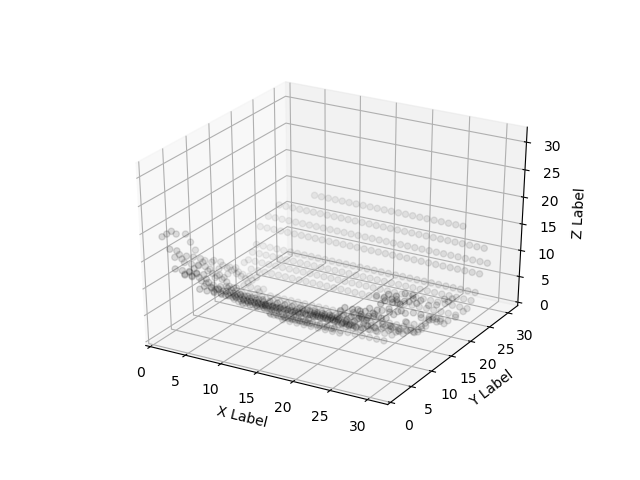
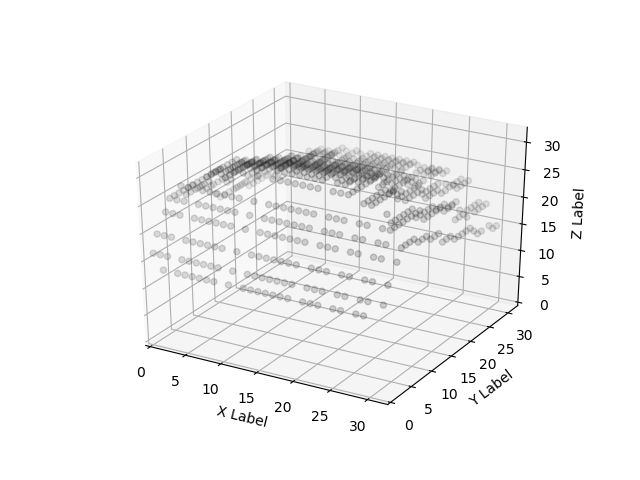
added figures for sparsity test

Changed region(s): [[0.2188, 0.2812, 0.7812, 0.7188]]

diff --git a/convert_data.py b/convert_data.py
@@ -397,7 +397,61 @@ def get_visible_set(in_dir, out_dir, insize, subdir):
             small_grid = np.reshape(np.load(f), (insize, insize, insize))
             for i in range(0, insize):
                 for j in range(0,insize):
-                    for k in range(0,insize):
+                    for k in range(insize-1,-1,-1):
+                        if small_grid[i,j,k] == 1:
+                            grid[i,j,k] = small_grid[i,j,k]
+                            break # stop at first z
+
+        filename = os.path.join(out_dir, fname)
+        with open(filename, "wb") as f:
+            np.save(f, grid)
+
+        if "_0" in fname:
+            # sanity check
+            s = insize
+            xs = []
+            ys = []
+            zs = []
+            for i in range(0, s):
+                for j in range(0, s):
+                    for k in range(0, s):
+                        if grid[i,j,k] == 1:
+                            xs.append(i)
+                            ys.append(j)
+                            zs.append(k)
+
+            fig = plt.figure()
+            ax = fig.add_subplot(111, projection='3d')
+            ax.scatter(xs=xs, ys=ys, zs=zs, c=[0.1,0.1,0.1,0.2], marker='o')
+            ax.set_xlabel('X Label')
+            ax.set_ylabel('Y Label')
+            ax.set_zlabel('Z Label')
+            ax.set_xlim3d(0, s)
+            ax.set_ylim3d(0, s)
+            ax.set_zlim3d(0, s)
+
+            # plt.show() 
+            plt.savefig(os.path.join(fig_path, fname.split(".")[0] + ".png"))   
+            plt.close()
+
+
+def get_visible_set_sparse(in_dir, out_dir, insize, subdir, step):
+    fig_path = "./3d-object-recognition/figures/sparse-seen-" +str(step)
+    exists_and_create(fig_path)
+    exists_and_create(out_dir)
+    out_dir = os.path.join(out_dir, subdir)
+    in_dir = os.path.join(in_dir, subdir)
+    exists_and_create(out_dir)
+
+    for fname in os.listdir(in_dir):
+        filename = os.path.join(in_dir, fname)
+        grid = np.zeros((insize, insize, insize))
+
+        with open(filename, "rb") as f:
+            small_grid = np.reshape(np.load(f), (insize, insize, insize))
+            for i in range(0, insize,step):
+                for j in range(0,insize,step):
+                    for k in range(insize-1,-1,-1):
                         if small_grid[i,j,k] == 1:
                             grid[i,j,k] = small_grid[i,j,k]
                             break # stop at first z
@@ -440,8 +494,9 @@ if __name__ == '__main__':
     # convert_scale_dataset("./3d-object-recognition/data-16/", "./3d-object-recognition/data-32-scaled-16/", 16, 32, "train")
     # rename_set_files("./3d-object-recognition/data-32-plus-scaled/test", 0)
     # convert_scaled_dataset_to_translation("./3d-object-recognition/data-16/", "./3d-object-recognition/data-32-scaled-16-translated/", 16, 32, "train")
+    # get_visible_set("./3d-object-recognition/data-small/", "./3d-object-recognition/data-32-seen/", 32, "test")
 
-    get_visible_set("./3d-object-recognition/data-small/", "./3d-object-recognition/data-32-seen/", 32, "dev")
+    get_visible_set_sparse("./3d-object-recognition/data-small/", "./3d-object-recognition/data-32-sparse-seen/", 32, "test", 5)
 
     # # sanity check on saved data
     # s = 32

diff --git a/net.py b/net.py
@@ -269,5 +269,5 @@ class Net3D():
 
 if __name__ == "__main__":
     # model = Net3D("Net3D-32-scaled", "./3d-object-recognition/data-32-plus-scaled")
-    model = Net3D("Net3D-32-scaled", "./3d-object-recognition/data-32-scaled-16-translated")
-    model.run_model(print_cost=True, load=False, train=True, show_activations=False)
+    model = Net3D("Net3D", "./3d-object-recognition/data-32-sparse-seen")
+    model.run_model(print_cost=True, load=True, train=False, show_activations=False)
